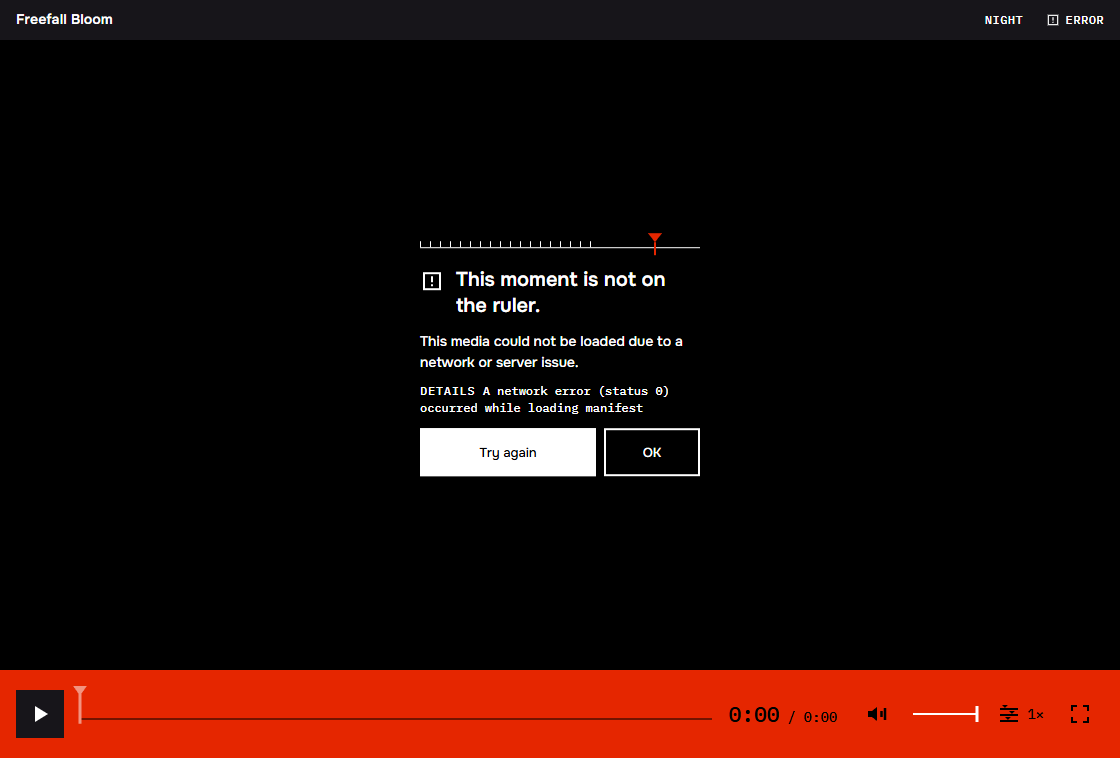
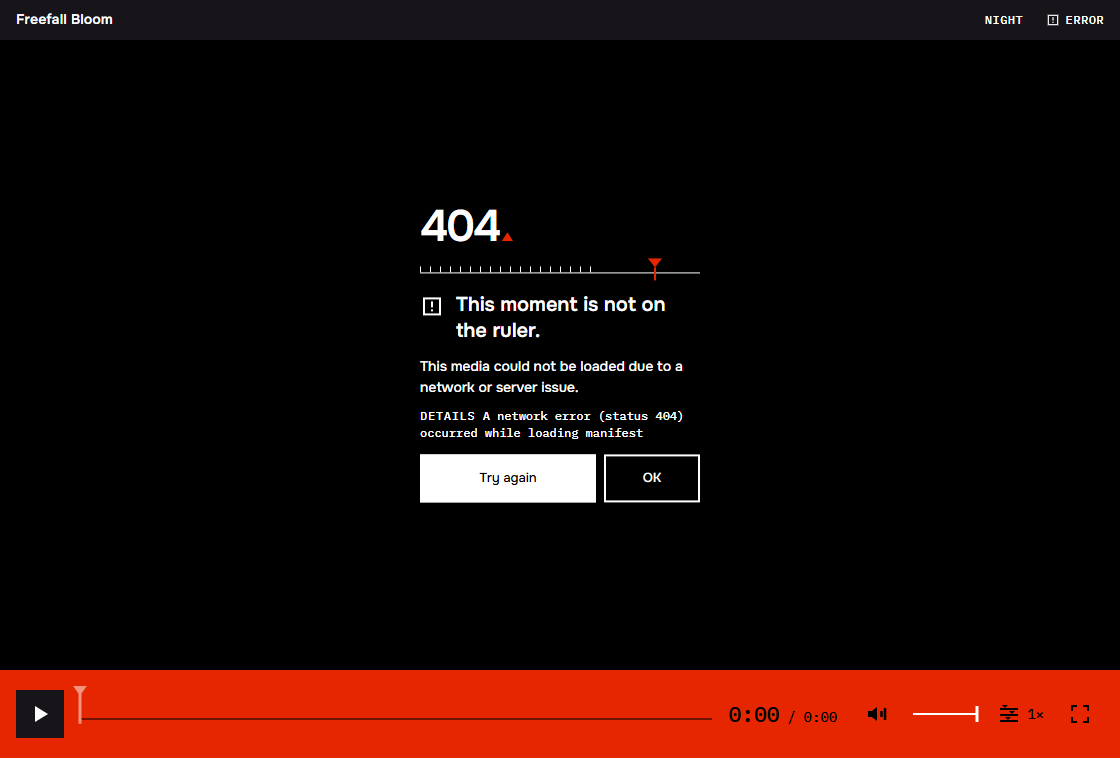
Ukrainian pictures and tracks, server code in the error dialog
- The pictures that show the skin's own words exist in Ukrainian (name-uk.webp), picked from ?lang=uk.
- Ukrainian chapters and captions for the demo film, chosen by the player's language.
- The error dialog shows the server's answer (404) big, with the pin as its full stop, when the engine reports one; ?nofallback keeps a Mux failure on screen for capturing it.
- Error pictures re-captured with a real 404; spec notes updated.

Changed region(s): [[0.375, 0.2731, 0.625, 0.6675]]

diff --git a/apps/preview/src/frame/player.tsx b/apps/preview/src/frame/player.tsx
@@ -1,3 +1,4 @@
+import { useLocale } from '@videojs/react/i18n';
 import { useState } from 'react';
 import { MuxVideo } from '@videojs/react/media/mux-video';
 import { Video, VideoPlayer } from '@videojs/react/video';
@@ -24,9 +25,23 @@ export const MATERIAL: { author: string | null; about: string | null; isDemo: bo
   isDemo: true,
 };
 /** Tracks served from `apps/preview/public/media`: chapters, captions, and a ruler preview storyboard (a sprite sheet). */
-const CHAPTERS = './media/chapters.vtt';
-const CAPTIONS = './media/captions.vtt';
 const THUMBNAILS = './media/thumbs.vtt';
+const NO_FALLBACK = new URLSearchParams(location.search).has('nofallback');
+
+/** The demo's chapters and captions in the player's language (English, or Ukrainian when the page is). */
+function useDemoTracks() {
+  const uk = useLocale().startsWith('uk');
+  const lang = uk ? 'uk' : 'en';
+  const label = uk ? 'Українська' : 'English';
+  const suffix = uk ? '.uk' : '';
+  return (
+    <>
+      <track kind="chapters" label={label} srcLang={lang} src={`./media/chapters${suffix}.vtt`} default />
+      <track kind="subtitles" label={label} srcLang={lang} src={`./media/captions${suffix}.vtt`} />
+      <track kind="metadata" label="thumbnails" src={THUMBNAILS} default />
+    </>
+  );
+}
 
 /** A video the visitor opened from their own computer: a blob address made in this browser, and the file's name. */
 export interface LocalMedia {
@@ -67,14 +82,10 @@ export function Player({
 
 /** The demo film: Mux first, the bundled MP4 if the stream fails to load (once; the player restarts clean on the file). */
 function DemoPlayer({ media }: { media?: PlaybackProps }) {
-  const [fallback, setFallback] = useState(false);
-  const tracks = (
-    <>
-      <track kind="chapters" label="English" srcLang="en" src={CHAPTERS} default />
-      <track kind="subtitles" label="English" srcLang="en" src={CAPTIONS} />
-      <track kind="metadata" label="thumbnails" src={THUMBNAILS} default />
-    </>
-  );
+  const [fallback, setFallbackState] = useState(false);
+  // `?nofallback` keeps the Mux failure on screen (to look at, or to capture, the error state).
+  const setFallback = (value: boolean) => (NO_FALLBACK ? undefined : setFallbackState(value));
+  const tracks = useDemoTracks();
   return (
     <VideoPlayer key={fallback ? 'demo-file' : 'demo-mux'} title={TITLE} poster={POSTER}>
       <VideoSkin themeSwitch>
@@ -100,13 +111,7 @@ function DemoPlayer({ media }: { media?: PlaybackProps }) {
  */
 export function FormatPlayer() {
   const [fallback, setFallback] = useState(false);
-  const tracks = (
-    <>
-      <track kind="chapters" label="English" srcLang="en" src={CHAPTERS} default />
-      <track kind="subtitles" label="English" srcLang="en" src={CAPTIONS} />
-      <track kind="metadata" label="thumbnails" src={THUMBNAILS} default />
-    </>
-  );
+  const tracks = useDemoTracks();
   return (
     <VideoPlayer key={fallback ? 'format-file' : 'format-mux'} title={TITLE} poster={POSTER}>
       <VideoSkin resumeKey="" themeSwitch>

diff --git a/apps/preview/src/demo/main.tsx b/apps/preview/src/demo/main.tsx
@@ -17,6 +17,8 @@ const params = new URLSearchParams(location.search);
 const LOCALE = (params.get('lang') ?? 'en').trim() || 'en';
 
 const SHOWCASE = './showcase/';
+/** The pictures that show the skin's own words (status, menu, error) exist in each language: `name-uk.webp` for Ukrainian. */
+const SUFFIX = LOCALE.startsWith('uk') ? '-uk' : '';
 const REPO = 'https://github.com/trusovanaty/signal-viewport';
 /** Measured widths of the captured frames: a 375 px window holds a 343 px player, a 320 px window a 288 px one. */
 const FRAMES = { wide: 1120, window: 375, narrow: 343, narrowHeight: 383 };
@@ -278,7 +280,7 @@ function Layers({ copy }: { copy: Copy['layers'] }) {
             {LAYER_PARTS.map((part, i) => (
               <div key={part} className="sc-layer" aria-hidden="true">
                 <span className="sc-node">{String(i + 1).padStart(2, '0')}</span>
-                <div className="sc-slice" data-part={part} style={{ backgroundImage: `url(${SHOWCASE}desk-start.webp)` }} />
+                <div className="sc-slice" data-part={part} style={{ backgroundImage: `url(${SHOWCASE}desk-start${SUFFIX}.webp)` }} />
               </div>
             ))}
           </div>
@@ -386,7 +388,7 @@ function Responsive({ copy, formats }: { copy: Copy['responsive']; formats: Copy
         <figure key={frame.src} className="sc-frame sc-pair">
           <p className="sc-pair-label">{frame.label}</p>
           <img
-            src={`${SHOWCASE}${frame.src}.webp`}
+            src={`${SHOWCASE}${frame.src}${SUFFIX}.webp`}
             width={FRAMES.narrow}
             height={FRAMES.narrowHeight}
             alt={frame.alt}
@@ -421,7 +423,7 @@ function States({ copy }: { copy: Copy['states'] }) {
                   key={key}
                   className="sc-shot-img"
                   data-active={active === key ? '' : undefined}
-                  src={`${SHOWCASE}${STATE_IMAGE[key]}.webp`}
+                  src={`${SHOWCASE}${STATE_IMAGE[key]}${SUFFIX}.webp`}
                   width={FRAME.w}
                   height={FRAME.h}
                   alt={copy.alts[key]}

diff --git a/src/video/shared/error-dialog.tsx b/src/video/shared/error-dialog.tsx
@@ -51,9 +51,18 @@ function ErrorText() {
   );
 }
 
+/** The server's answer, when the engine's message carries one ("... (status 404) ..."): shown big, like the 404 page. */
+function useHttpStatus(): number | null {
+  const message = usePlayer((s) => s.error?.message) ?? '';
+  const match = /status\s+(\d{3})/i.exec(message);
+  const status = match ? Number(match[1]) : null;
+  return status !== null && status >= 400 && status < 600 ? status : null;
+}
+
 export function ErrorDialog() {
   const retry = useRetry();
   const copy = useCopy();
+  const status = useHttpStatus();
   return (
     <ErrorDialogPrimitive.Root>
       <ErrorDialogPrimitive.Backdrop
@@ -67,6 +76,12 @@ export function ErrorDialog() {
           'media-high-contrast:border media-high-contrast:border-solid media-high-contrast:border-current forced-colors:border forced-colors:border-solid forced-colors:border-[CanvasText]'
         )}
       >
+        {status ? (
+          <div className="signal-error-code" aria-hidden="true">
+            {status}
+            <span className="signal-error-stop" />
+          </div>
+        ) : null}
         {/* The ruler of the player with the pin past its last tick: this moment is not on it (as on the 404 page). */}
         <div className="signal-error-ruler" aria-hidden="true">
           <span className="signal-error-ticks" />

diff --git a/src/styles/signal.css b/src/styles/signal.css
@@ -1084,3 +1084,22 @@
   .signal-error-ruler { display: none; }
   .signal-error-lead { font-size: 15px; line-height: 20px; }
 }
+
+/* The server's answer (404, 503...) when the engine reports one: big type with the pin as its full stop, like the 404 page. */
+.signal-error-code {
+  font-size: 44px;
+  font-weight: 600;
+  line-height: 0.9;
+  letter-spacing: -0.045em;
+}
+.signal-error-stop {
+  display: inline-block;
+  width: 0.26em;
+  height: 0.2em;
+  margin-left: 0.06em;
+  background: var(--signal-red);
+  clip-path: polygon(50% 0, 100% 100%, 0 100%);
+}
+@container media-root (max-width: 559.98px) {
+  .signal-error-code { display: none; }
+}

diff --git a/design/spec.md b/design/spec.md
@@ -455,3 +455,10 @@ The title is one line ("Player states." / «Стани плеєра.») so the s
 - Error dialog in the idea of the 404 page: a short ruler with the pin past its last tick, the line "This moment is not on the ruler." (Video.js's own title stays as the accessible name), then the friendly sentence, the technical detail line and Try again / OK. The ruler is hidden in small players (container under 560 px). The showcase Error picture was re-captured.
 
 - The three frames in Any format now have the same menu as the main player (Speed, Captions, Chapters, Colour; no Quality, they play the bundled MP4): they carry the chapters, captions and ruler-preview tracks and follow the shared Red/Mono choice.
+
+## Ukrainian pictures and the server code in the error (Nov 14)
+
+- The pictures that show the skin's own words now exist in Ukrainian: `desk-start-uk`, `g-focus-uk`, `g-settings-uk`, `g-captions-uk`, `g-restored-uk`, `g-loading-uk`, `g-error-uk`, `mob-playing-uk`, `mob-settings-uk` (the landing picks the suffix from `?lang=uk`). The pictures that show only numbers and icons (timeline, time field, focus close-ups) are shared by both languages.
+- The demo's chapters and captions have a Ukrainian pair (`chapters.uk.vtt`, `captions.uk.vtt`), chosen by the player's language, so the Ukrainian page shows Ukrainian chapters and subtitles.
+- The error dialog shows the server's answer big, with the pin as its full stop, when the engine's message carries one ("status 404"); with no answer (offline) only the ruler and the line show. `?nofallback` keeps a Mux failure on screen (the demo normally falls back to the bundled MP4), which is how the Error picture is captured (a real 404 from the stream). The engine's own detail line stays English (it is not translated).
+- Checked: every UK string is Cyrillic except key names, "Safari." and the font names.
